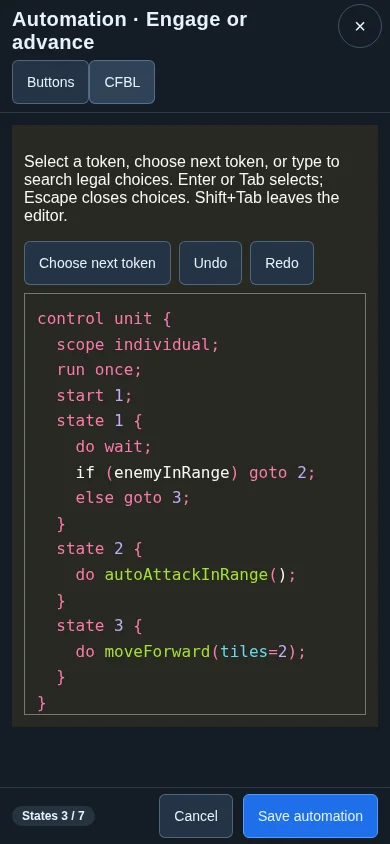
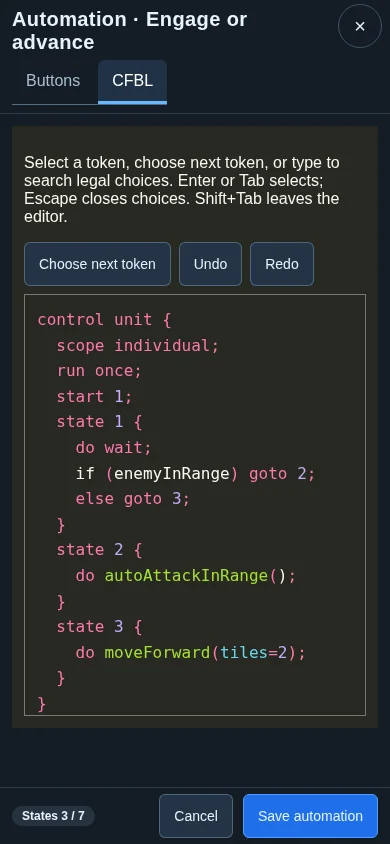
fix(ui): simplify automation creation and style view tabs

diff --git a/tests/e2e/automationFeature.test.js b/tests/e2e/automationFeature.test.js
@@ -9,9 +9,9 @@ async function startGame(page) {
   await page.waitForFunction(() => window.gameState?.gameStarted && window.gameInstance?.gameLoop)
 }
 
-async function newUnitAutomation(page) {
+async function newAutomation(page, variant = 'unit') {
   await page.locator('#policiesBtn').click()
-  await page.locator('#newPolicyBtn').click()
+  await page.getByLabel('Add automation to', { exact: true }).selectOption(variant)
   return page.locator('.policy-editor')
 }
 
@@ -19,7 +19,19 @@ test('DAV and guided CFBL share changes, legal choices, history and persisted so
   const errors = []
   page.on('pageerror', error => errors.push(error.message))
   await startGame(page)
-  const editor = await newUnitAutomation(page)
+  await page.locator('#policiesBtn').hover()
+  expect(await page.locator('#actions').evaluate(element => Number(window.getComputedStyle(element).zIndex))).toBeGreaterThan(
+    await page.locator('#energyBarContainer').evaluate(element => Number(window.getComputedStyle(element).zIndex)))
+  expect(await page.locator('#actions').evaluate(element => Number(window.getComputedStyle(element).zIndex))).toBeGreaterThan(
+    await page.locator('#moneyBarContainer').evaluate(element => Number(window.getComputedStyle(element).zIndex)))
+  const editor = await newAutomation(page)
+  const buttonsTab = editor.getByRole('button', { name: 'Default automation view', exact: true })
+  const cfblTab = editor.getByRole('button', { name: 'Automation text view', exact: true })
+  const buttonsBox = await buttonsTab.boundingBox()
+  const cfblBox = await cfblTab.boundingBox()
+  expect(buttonsBox.y).toBeCloseTo(cfblBox.y, 0)
+  expect(cfblBox.x).toBeGreaterThanOrEqual(buttonsBox.x + buttonsBox.width)
+  await expect(buttonsTab).toHaveAttribute('aria-pressed', 'true')
   await editor.getByLabel('Automation name', { exact: true }).fill('Integration patrol')
   await editor.getByRole('button', { name: '+ Add state', exact: true }).click()
   await editor.getByLabel('State 2 action', { exact: true }).selectOption('moveForward')
@@ -27,6 +39,8 @@ test('DAV and guided CFBL share changes, legal choices, history and persisted so
   await editor.getByRole('button', { name: 'Add ELSE', exact: true }).click()
   await editor.getByLabel('ELSE target state', { exact: true }).selectOption({ label: 'State 2' })
   await editor.getByRole('button', { name: 'Automation text view', exact: true }).click()
+  await expect(cfblTab).toHaveAttribute('aria-pressed', 'true')
+  await expect(buttonsTab).toHaveAttribute('aria-pressed', 'false')
   const source = editor.getByRole('textbox', { name: 'CFBL automation source', exact: true })
   const original = await source.inputValue()
   expect(original).toContain('moveForward(tiles=2)')
@@ -74,7 +88,7 @@ for (const [deviceName, fullScreen] of [['iPhone 13', true], ['iPad Pro 11', fal
     const page = await context.newPage()
     try {
       await startGame(page)
-      const editor = await newUnitAutomation(page)
+      const editor = await newAutomation(page)
       const box = await editor.boundingBox()
       const viewport = page.viewportSize()
       if (fullScreen) {
@@ -106,8 +120,7 @@ for (const [variant, header, effect] of [
     const errors = []
     page.on('pageerror', error => errors.push(error.message))
     await startGame(page)
-    const editor = await newUnitAutomation(page)
-    await editor.getByLabel('Automation type', { exact: true }).selectOption(variant)
+    const editor = await newAutomation(page, variant)
     await editor.getByLabel('Automation name', { exact: true }).fill(`Category ${variant}`)
     await editor.getByLabel('State 1 action', { exact: true }).selectOption(effect)
     await editor.getByRole('button', { name: 'Automation text view', exact: true }).click()

diff --git a/src/ui/policies/policyPanel.js b/src/ui/policies/policyPanel.js
@@ -293,27 +293,24 @@ export function installPolicyPanel() {
       h('button', { class: 'policy-icon-btn', type: 'button', 'aria-label': 'Close automations', text: '×', onClick: closePolicyPanel })),
     list,
     h('div', { class: 'policy-panel__footer' },
-      h('button', {
-        class: 'policy-btn policy-btn--primary',
-        type: 'button',
-        id: 'newPolicyBtn',
-        text: '+ New unit automation',
-        onClick: () => { closePolicyPanel(); openPolicyEditor() }
-      }),
-      h('button', {
-        class: 'policy-btn policy-btn--primary',
-        type: 'button',
-        id: 'newBuildPolicyBtn',
-        text: '+ New build automation',
-        onClick: () => { closePolicyPanel(); openPolicyEditor({ variant: 'build' }) }
-      }),
-      h('button', {
-        class: 'policy-btn policy-btn--primary', type: 'button', id: 'newUnitBuildPolicyBtn',
-        text: '+ New unit build automation',
-        onClick: () => { closePolicyPanel(); openPolicyEditor({ variant: 'unitBuild' }) }
-      }),
-      h('button', { class: 'policy-btn policy-btn--primary', type: 'button', id: 'newDefencePolicyBtn', text: '+ New defence automation',
-        onClick: () => { closePolicyPanel(); openPolicyEditor({ variant: 'defence', defenceBuilding: selectedUnits.find(entity => entity.isBuilding && entity.owner === humanPlayer()) }) } })))
+      h('label', { class: 'policy-field policy-panel__add' },
+        h('span', { text: 'Add automation to' }),
+        h('select', {
+          id: 'newAutomationSelect', class: 'policy-field__control', 'aria-label': 'Add automation to',
+          onChange: event => {
+            const variant = event.target.value
+            if (!variant) return
+            event.target.value = ''
+            closePolicyPanel()
+            openPolicyEditor({ variant, defenceBuilding: variant === 'defence'
+              ? selectedUnits.find(entity => entity.isBuilding && entity.owner === humanPlayer()) : undefined })
+          }
+        },
+        h('option', { value: '', text: 'Choose…', disabled: true, selected: true, hidden: true }),
+        h('option', { value: 'unitBuild', text: 'build unit' }),
+        h('option', { value: 'build', text: 'build base' }),
+        h('option', { value: 'unit', text: 'control unit' }),
+        h('option', { value: 'defence', text: 'control base defence' })))))
   document.body.appendChild(panel)
 
   if (button) {

diff --git a/src/ui/policies/policies.css b/src/ui/policies/policies.css
@@ -34,7 +34,8 @@
 }
 
 .policy-editor__header {
-  display: flex;
+  display: grid;
+  grid-template-columns: minmax(0, 1fr) auto;
   align-items: center;
   gap: 12px;
   padding: 12px 16px;
@@ -46,9 +47,41 @@
   margin: 0;
   font-size: 20px;
   letter-spacing: 0.02em;
+  overflow-wrap: anywhere;
 }
 
+.policy-editor__view-toggle {
+  display: flex;
+  flex-wrap: nowrap;
+  align-items: stretch;
+  gap: 4px;
+  border-bottom: 1px solid #526b80;
+}
+
+.policy-editor__tab {
+  flex: 0 0 auto;
+  min-height: 40px;
+  padding: 8px 14px;
+  border: 0;
+  border-bottom: 3px solid transparent;
+  border-radius: 6px 6px 0 0;
+  color: #a9bed0;
+  background: transparent;
+  font: inherit;
+  cursor: pointer;
+}
+
+.policy-editor__tab:hover { background: #1d2c3b; color: #e8f1fa; }
+.policy-editor__tab[aria-pressed="true"] {
+  color: #fff;
+  background: #203244;
+  border-bottom-color: #69b8ff;
+}
+.policy-editor__tab:focus-visible { outline: 2px solid #69b8ff; outline-offset: 2px; }
+.policy-panel__add { width: 100%; }
+
 .policy-editor__pause-note {
+  grid-column: 1 / -1;
   font-size: 12px;
   color: #9fb8cf;
   text-transform: uppercase;

diff --git a/src/ui/policies/policyEditorModal.js b/src/ui/policies/policyEditorModal.js
@@ -129,8 +129,8 @@ export function openPolicyEditor(options = {}) {
   const cancelButton = h('button', { class: 'policy-btn', type: 'button', text: 'Cancel' })
   const closeButton = h('button', { class: 'policy-editor__close', type: 'button', 'aria-label': 'Close editor', text: '×' })
 
-  const buttonsToggle = h('button', { type: 'button', class: 'policy-btn', 'aria-label': 'Default automation view', text: 'Buttons', onClick: () => switchView('dav') })
-  const textToggle = h('button', { type: 'button', class: 'policy-btn', 'aria-label': 'Automation text view', text: 'CFBL', onClick: () => switchView('atv') })
+  const buttonsToggle = h('button', { type: 'button', class: 'policy-editor__tab', 'aria-label': 'Default automation view', text: 'Buttons', onClick: () => switchView('dav') })
+  const textToggle = h('button', { type: 'button', class: 'policy-editor__tab', 'aria-label': 'Automation text view', text: 'CFBL', onClick: () => switchView('atv') })
   dialog.append(
     h('header', { class: 'policy-editor__header' },
       titleEl,

diff --git a/src/ui/policies/automationViewport.css b/src/ui/policies/automationViewport.css
@@ -39,6 +39,9 @@
 }
 
 .automation-phone .policy-editor__pause-note { display: none; }
+.automation-phone .policy-editor__header h2,
+.automation-phone .policy-editor__view-toggle { grid-column: 1 / -1; }
+.automation-phone .policy-editor__view-toggle { justify-self: start; }
 .automation-phone .policy-editor__footer { padding: 6px 12px; flex-wrap: wrap; }
 .automation-phone .policy-editor__body { overscroll-behavior: contain; padding: 12px; }
 .automation-phone .policy-editor__reason { max-height: 64px; overflow-y: auto; padding: 6px 12px; }

diff --git a/styles/sidebar.css b/styles/sidebar.css
@@ -567,6 +567,9 @@ body.is-touch .money-tooltip__meta {
 }
 
 #actions {
+  position: relative;
+  /* Keep action tooltips above the resource bars (both use z-index: 2). */
+  z-index: 3;
   display: flex;
   gap: 5px;
   margin: 10px 0;

diff --git a/docs/automation-release-evidence.md b/docs/automation-release-evidence.md
@@ -17,13 +17,13 @@ Specs 100–108 are implemented together. Software verification does not certify
 | iPhone Safari keyboard, orientation and flyout usability | Physical-device verification | **Open**: unavailable in cloud runner |
 | At least 75 presented FPS under active worst-case gameplay | Qualifying reference hardware protocol, spec 107 | **Open**: headless/software browser cannot certify |
 
-Combined branch results reported by the root orchestrator: `npm run test:unit -- --maxWorkers=2` passed **247 files / 4,804 tests**; `npm run test:integration -- --maxWorkers=2` passed **2 files / 86 tests**; `npm run build` passed. The root orchestrator also reports **9 public-UI browser scenarios passed** (DAV/guided CFBL history, paste, save; phone/iPad rotation; all four categories save/reopen; real replay playback; production-building lifecycle). Final combined lint is recorded with the PR.
+Combined branch results reported by the root orchestrator: `npm run test:unit -- --maxWorkers=2` passed **247 files / 4,804 tests**; `npm run test:integration -- --maxWorkers=2` passed **2 files / 86 tests**; `npm run build` passed. The root orchestrator also reports **9 public-UI browser scenarios passed** (DAV/guided CFBL history, paste, save; phone/iPad rotation; all four categories save/reopen; real replay playback; production-building lifecycle). Final combined lint passed. The 2026-10-12 UI polish reran all 4,804 unit tests and seven editor/browser cases; those cases now enter each category through the single creation select and verify horizontal active tabs plus sidebar/resource-bar stacking.
 
 Local documentation verification: seven complete CFBL examples accepted; relative links valid; `npx vitest run tests/unit/landingPage.test.js` passed all 11 cases for the initial landing slice. The EN/DE landing routes were also checked in system Chromium: all four images decoded and had localized nonempty alt text in each locale. Full lint passed before each documentation commit. The initial documentation worktree deferred its full unit run to the successful combined run above.
 
 ## Real screenshot provenance
 
-Implementation revision: `864dbd1`, integrating specs 100–107. Capture helper: `scripts/captureAutomationScreenshots.mjs`. Assets are in `public/images/landing/automation/` and use **WebP quality 85**, DPR 1, English game UI. This is real rendered game UI, not a generated or composited editor image.
+Screenshots refreshed on 2026-10-12 from `6058fdc` plus the Automation UI polish changes in this PR: horizontal active tabs and the single creation select. The accepted source fixture and real defence scenario are unchanged. Capture helper: `scripts/captureAutomationScreenshots.mjs`. Assets are in `public/images/landing/automation/` and use **WebP quality 85**, DPR 1, English game UI. This is real rendered game UI, not a generated or composited editor image.
 
 ```sh
 npm run dev -- --host 127.0.0.1 --port 5175

diff --git a/docs/automation-tutorial.md b/docs/automation-tutorial.md
@@ -4,7 +4,7 @@ Automation is why the game is called **Code for Battle**. You choose which norma
 
 ## Create a unit automation in Buttons
 
-Open Automation and create a control-unit automation. Choose global scope to apply the program to all eligible owned units, or individual scope to bind selected units. Each entity progresses through its own state machine in either control scope. Continuous keeps evaluating; once stops after the first completed pass. Give the automation a useful display title: it is a label, not a variable.
+Open Automation. In **Add automation to**, choose **control unit**. The other choices are **build unit**, **build base** and **control base defence**. Choose global scope to apply the program to all eligible owned units, or individual scope to bind selected units. Each entity progresses through its own state machine in either control scope. Continuous keeps evaluating; once stops after the first completed pass. Give the automation a useful display title: it is a label, not a variable.
 
 States are numbered automatically from 1 to 7. Pick an initial state, an action for each state and rules that move between states. For a simple defensive machine, state 1 waits while health is healthy and moves to state 2 when relative health falls below 0.3. State 2 can seek service. Add a recovery condition to return to state 1. Save, enable and apply the automation to owned supported units. Inspect the state-machine view to see current progress.
 

diff --git a/prompt-history/2026-10-12T11-20-26Z_automation-ui-polish.md b/prompt-history/2026-10-12T11-20-26Z_automation-ui-polish.md
@@ -1,0 +1,7 @@
+# Prompt — 2026-10-12 11:20:26 UTC
+
+Model: GPT-6 through Codex. Exact serving variant, reasoning level and token counts are unavailable.
+
+1. Wrap the new automation buttons inside a single select labeled “Add automation to”, with options “build unit”, “build base”, “control unit”, “control base defence”.
+2. Ensure tooltips for left sidebar action buttons render above the energy and money bars.
+3. Improve Automation modal view buttons to look like actual tabs; the supplied screenshot shows stacked Buttons/CFBL controls.

diff --git a/docs/changes/2026-10-12-automation-ui-polish.md b/docs/changes/2026-10-12-automation-ui-polish.md
@@ -1,0 +1,4 @@
+- [x] **Improvement: simplify Automation controls and fix layering**
+  Replace four create buttons with one category select, keep sidebar action tooltips above resource bars, and style the synchronized editor view controls as horizontal tabs.
+  Spec: [Default automation view](../../specs/103-automation-default-view-and-state-indexes.md)
+  Validation: 4,804 unit tests, seven browser scenarios, full lint, build and seven grammar examples passed; real WebP85 landing screenshots refreshed.
